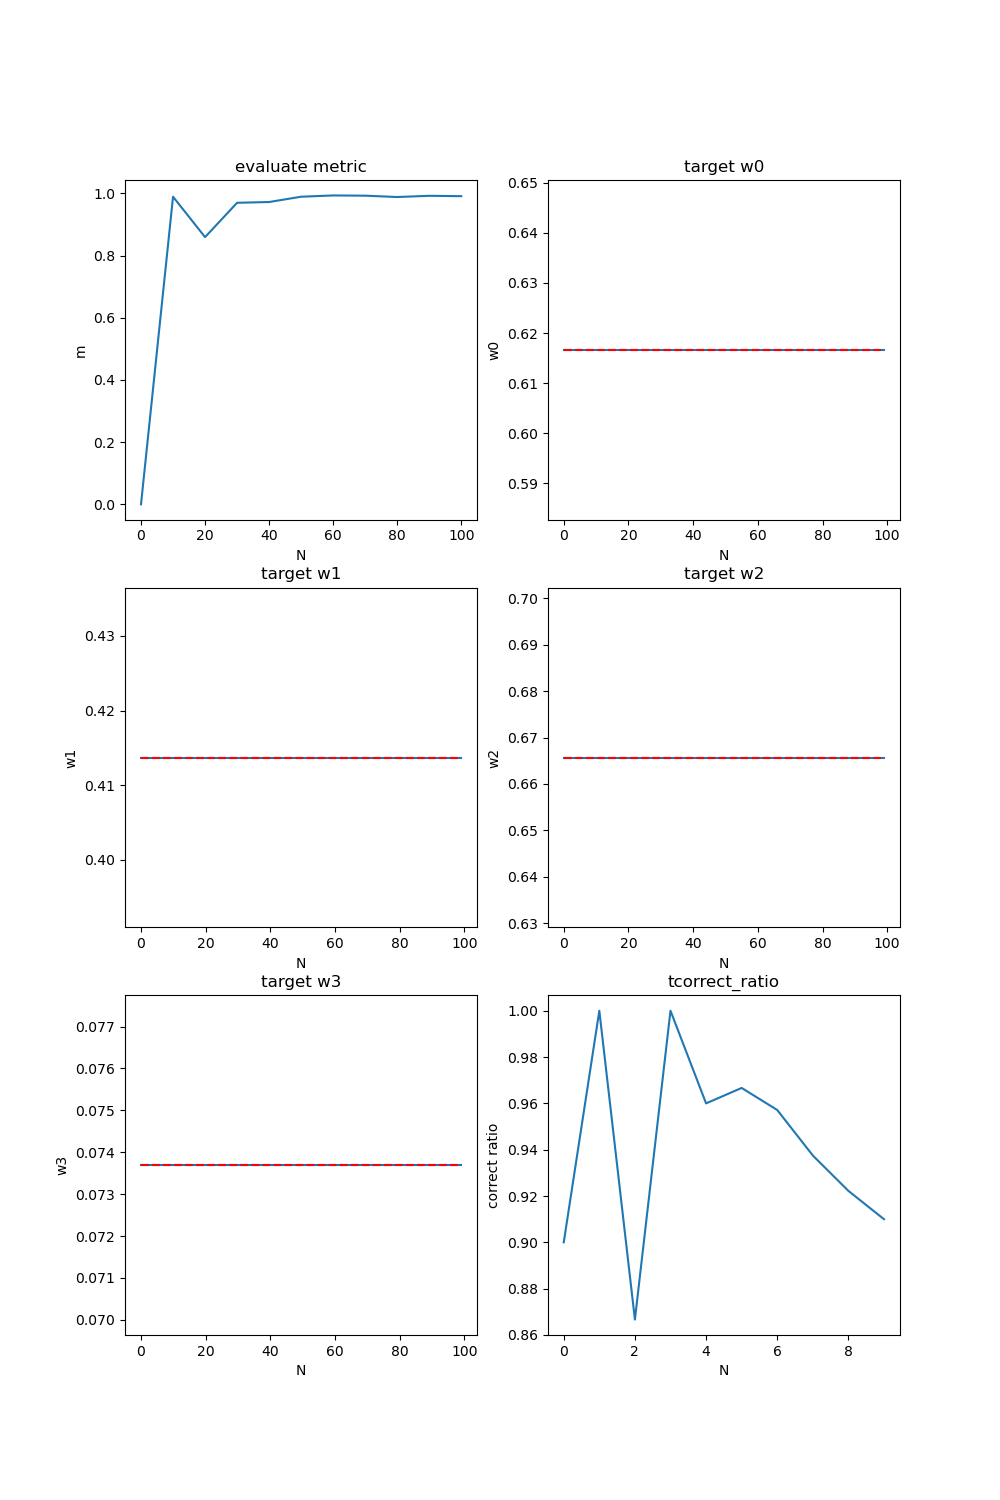
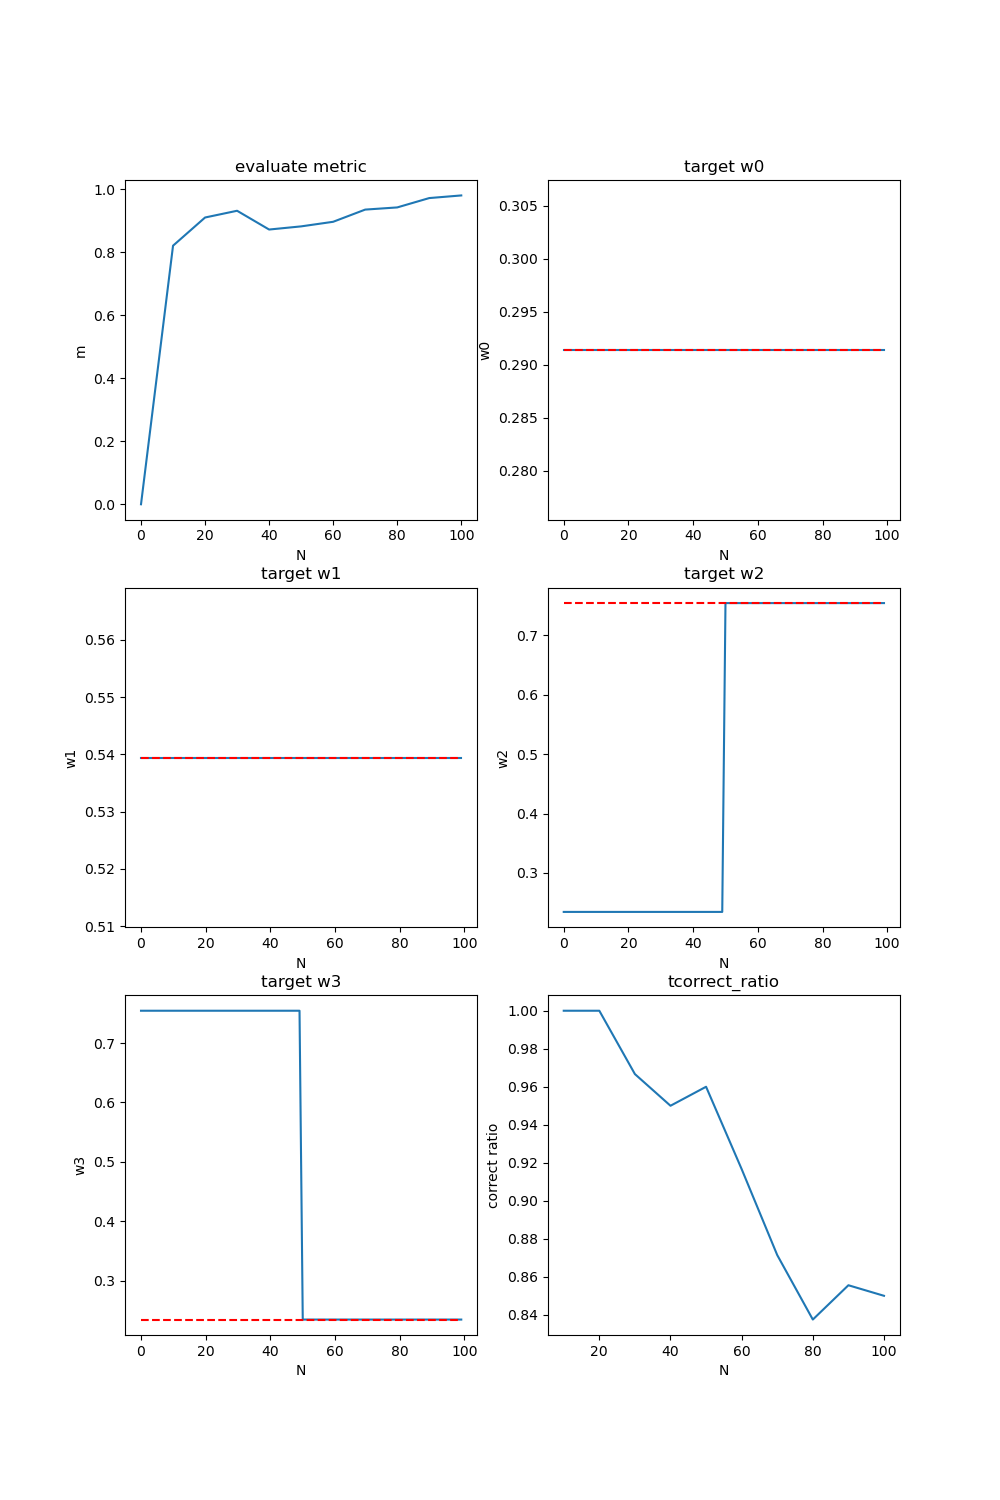
edit robust batch

diff --git a/myur5_description/src/preference_based_learning/demos.py b/myur5_description/src/preference_based_learning/demos.py
@@ -370,7 +370,8 @@ def batch(method, N, M, b):
         true_w = np.random.rand(4)
         true_w = true_w/np.linalg.norm(true_w)
         
-        target_w=true_w
+        #target_w=true_w
+        target_w = change_w_element(true_w)
         t = 1
 
 
@@ -389,6 +390,7 @@ def batch(method, N, M, b):
         psi_set = []
         s_set = []
         predicted_s_set = []
+        groundtruth_s_set = []
         feedback_entropy_arxive = []
         
         
@@ -413,11 +415,9 @@ def batch(method, N, M, b):
             
             t+=1
             
-        feedback_entropy, predicted_s= predict_feedback(psi_set, mean_w_samples)
+
         
         
-        feedback_entropy_arxive.append(feedback_entropy)
-        predicted_s_set.append(predicted_s)
         i = b
         m = 0
         
@@ -427,6 +427,16 @@ def batch(method, N, M, b):
             w_sampler.y = np.array(s_set).reshape(-1,1)
             w_samples = w_sampler.sample(M)
             
+            mean_w_samples = np.mean(w_samples,axis=0)
+            current_w = mean_w_samples/np.linalg.norm(mean_w_samples)
+            
+            m = np.dot(current_w, true_w)/(np.linalg.norm(current_w)*np.linalg.norm(true_w))
+            estimate_w[ite].append(m)
+            
+            feedback_entropy, predicted_s= predict_feedback(psi_set, mean_w_samples)
+            
+            feedback_entropy_arxive.append(feedback_entropy)
+            predicted_s_set.append(predicted_s)
 
             #sampled w visualization
             # df = pd.DataFrame(w_samples[:,0])
@@ -442,12 +452,10 @@ def batch(method, N, M, b):
             #print(f'sample length {len(w_samples)}')
             #print(f'1st w sample {w_samples[0]}')
             
-            
-            mean_w_samples = np.mean(w_samples,axis=0)
-            current_w = mean_w_samples/np.linalg.norm(mean_w_samples)
-            
-            m = np.dot(current_w, true_w)/(np.linalg.norm(current_w)*np.linalg.norm(true_w))
-            estimate_w[ite].append(m)
+            if i%(50)==0:
+                target_w = change_w_element(target_w)
+                
+
             
             
             #print('evaluate metric : {}'.format(m))
@@ -472,50 +480,81 @@ def batch(method, N, M, b):
                 
                 t+=1
                 
-            feedback_entropy, predicted_s= predict_feedback(psi_set, mean_w_samples)
+
             
-            feedback_entropy_arxive.append(feedback_entropy)
-            predicted_s_set.append(predicted_s)
                 
                 
             i += b
+        
+        
+        # w* 의 ground truth label 계산
+        _, groundtruth_s_set = predict_feedback(psi_set, true_w)
+            
             
         w_sampler.A = psi_set
         w_sampler.y = np.array(s_set).reshape(-1,1)
         w_samples = w_sampler.sample(M)
         
+        
+        
         mean_w_samples = np.mean(w_samples,axis=0)
         current_w = mean_w_samples/np.linalg.norm(mean_w_samples)
         
+        feedback_entropy, predicted_s= predict_feedback(psi_set, mean_w_samples)
+        
+        
+        feedback_entropy_arxive.append(feedback_entropy)
+        predicted_s_set.append(predicted_s)
+        
+
         m = np.dot(current_w, true_w)/(np.linalg.norm(current_w)*np.linalg.norm(true_w))
         estimate_w[ite].append(m)
         #print('w-estimate = {}'.format(mean_w_samples/np.linalg.norm(mean_w_samples)))
         print('Samples so far: ' + str(i))
         
         
-    correct_label_set = []
+    p_t_label_set = []
+    
     correct_ratio_ = []
-    chaged_label = []
+    wrong_label = []
+    diff_p_t_label = []
     argmax_entropy = []
     
-    # predict label 과 ground truth label 이 같으면 1 아니면 -1
+    # target label vs groundtruth label
+    
+    # predict label 과 target label
+    
+    # predict label 과 target label 이 같으면 1 아니면 -1
     for p_s_set in predicted_s_set:
-        correct_label_set.append(list(map(lambda x,y:x*y, p_s_set,s_set[:len(p_s_set)])))
+        p_t_label_set.append(list(map(lambda x,y:x*y, p_s_set,s_set[:len(p_s_set)])))
         
+    t_correct_label_set = np.array(groundtruth_s_set) * np.array(s_set)
+    
+    # target != ground truth 인 label (training시 잘 못 labeling 해준 것.)
+    wrong_label = np.where(np.array(t_correct_label_set) == -1)
+    
     
     # iteration 별로 predict 와 groun truth 의 비율 계산
-    for correct_label in correct_label_set:
+    for correct_label in p_t_label_set:
         correct_ratio_.append(correct_label.count(1)/(len(correct_label)))
-        chaged_label.append(np.where(np.array(correct_label) == -1))
+        diff_p_t_label.append(np.where(np.array(correct_label)==-1))
     
     #entropy 가 가장 높은 2개 query의 argument
     for x in feedback_entropy_arxive:
-        argmax_entropy.append(np.argsort(-x)[:2])
+        argmax_entropy.append(np.argsort(-np.array(x))[:2])
         
-        
-    print(correct_label_set)
+    
+    print(p_t_label_set)
+    print('############')
+    print(t_correct_label_set)
+    print('#################')
+    print(diff_p_t_label)
+    print('##################')
+    print(wrong_label)
+    print('##################')
     print(argmax_entropy)
-    print(chaged_label)
+    
+    #print(feedback_entropy_arxive)
     
     
         
@@ -563,7 +602,7 @@ def batch(method, N, M, b):
     w3.set_ylabel('w3')
     w3.set_title('target w3')
     
-    correct_ratio.plot(np.arange(len(correct_ratio_)), correct_ratio_)
+    correct_ratio.plot(10+b*np.arange(len(correct_ratio_)), correct_ratio_)
     correct_ratio.set_xlabel('N')
     correct_ratio.set_ylabel('correct ratio')
     correct_ratio.set_title('tcorrect_ratio')

diff --git a/myur5_description/src/preference_based_learning/t.py b/myur5_description/src/preference_based_learning/t.py
@@ -2,5 +2,6 @@ import numpy as np
 
 
 aa = np.arange(10)
-
-print(np.argsort(-aa)[:2])
+b = [1,2]
+c = [12]
+b.append(c)
